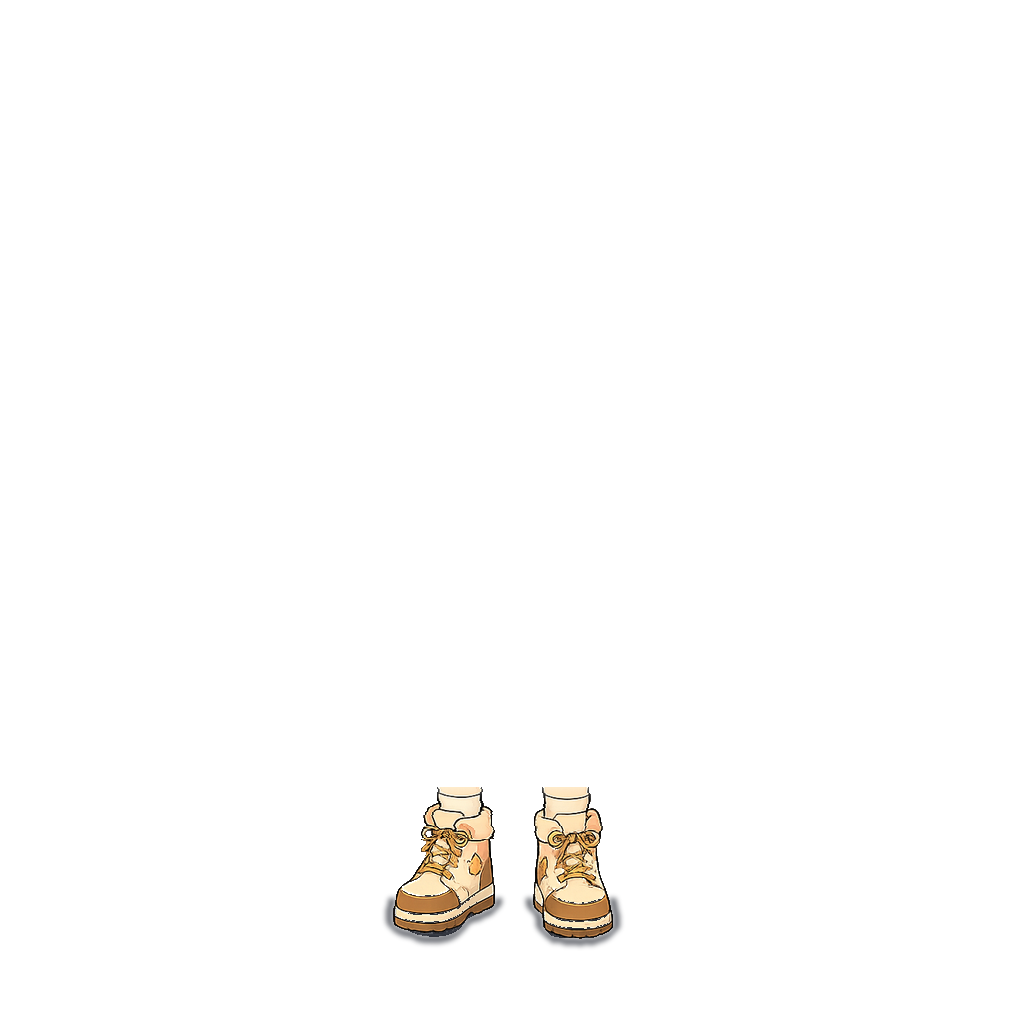
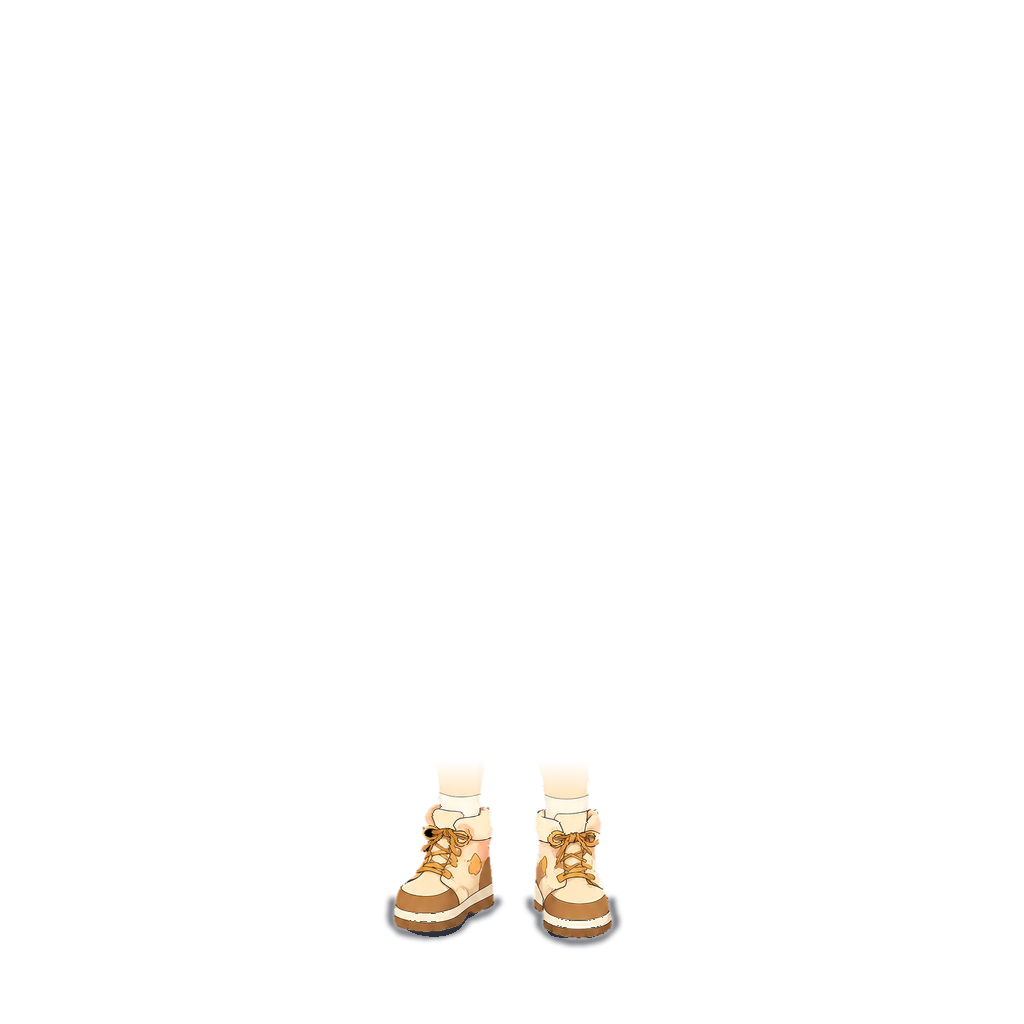
크림 부츠 맨발목 버전 교체 (표준 파이프라인, 원화 보관)

Changed region(s): [[0.375, 0.75, 0.625, 0.9375]]

diff --git a/art-src/README.md b/art-src/README.md
@@ -12,7 +12,8 @@ ChatGPT로 생성한 **가공 전 원본 이미지**를 보관한다. 배포(dis
 | boots-explorer-wearing.png | 탐험 부츠 착용 원화 (양말 버전, 구) | (교체됨) |
 | boots-explorer-sockless.png | 탐험 부츠 착용 원화 (맨발목, 현행) | avatar/shoes/explorer-boots.webp |
 | boots-green-wearing.png | 새싹 부츠 착용 원화 | avatar/shoes/green-boots.webp |
-| boots-cream-wearing.png | 크림 부츠 착용 원화 | avatar/shoes/cream-boots.webp |
+| boots-cream-wearing.png | 크림 부츠 착용 원화 (양말 버전, 구) | (교체됨) |
+| boots-cream-sockless.png | 크림 부츠 착용 원화 (맨발목, 현행) | avatar/shoes/cream-boots.webp |
 | boots-desert-wearing-retired.png | 모래 부츠 원화 (판매 중단, 보관용) | (은퇴) |
 | hat-explorer-wearing.png | 탐험 헬멧 착용 원화 | avatar/hat/explorer-helmet.webp |
 | boots-explorer-sockless-v2.png | 탐험 부츠 착용 원화 (맨발목 v2, 최종 승인본) | avatar/shoes/explorer-boots.webp |
